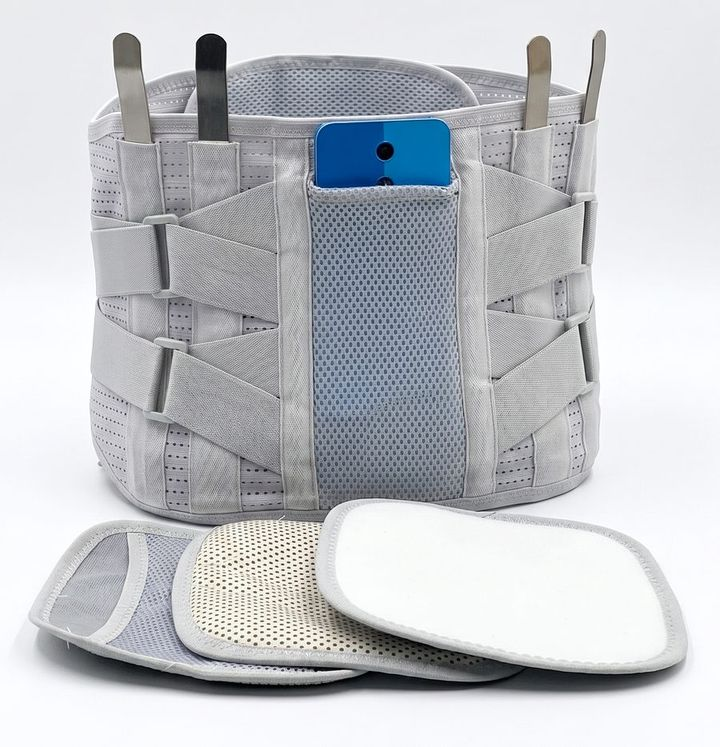
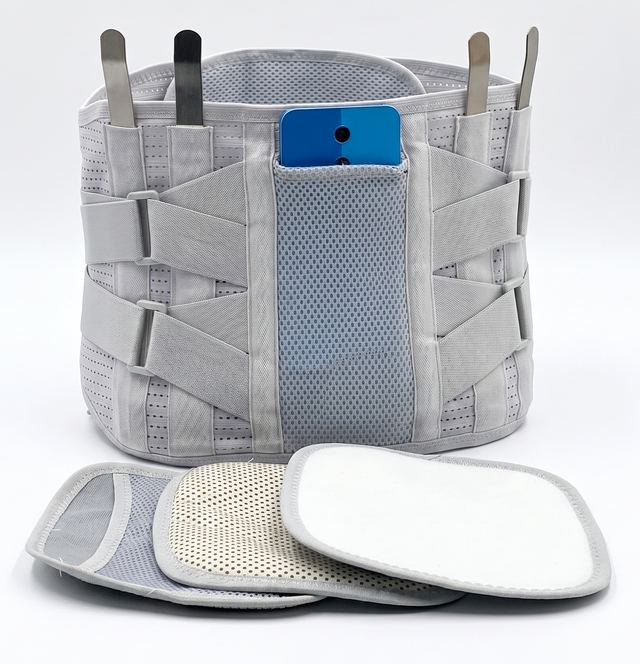
Пиксельдер админ арқылы, сурет қозғалмайды, сайт жылдамдығы
Claude-Session: https://claude.ai/code/session_01YBJso413CP3CgJT5KMA59N

Changed region(s): [[0.375, 0.753, 0.4062, 0.7831], [0.375, 0.6928, 0.4062, 0.7229]]

diff --git a/bel/index.html b/bel/index.html
@@ -12,27 +12,9 @@
   <meta property="og:image" content="../img/bandaj.jpg">
   <link rel="preload" as="image" href="../img/bandaj.webp" type="image/webp" fetchpriority="high">
   <link rel="preconnect" href="https://wa.me">
-  <link rel="preconnect" href="https://analytics.tiktok.com">
 
-<!-- TikTok Pixel Code Start -->
-<script>
-!function (w, d, t) {
-  w.TiktokAnalyticsObject=t;var ttq=w[t]=w[t]||[];ttq.methods=["page","track","identify","instances","debug","on","off","once","ready","alias","group","enableCookie","disableCookie","holdConsent","revokeConsent","grantConsent"],ttq.setAndDefer=function(t,e){t[e]=function(){t.push([e].concat(Array.prototype.slice.call(arguments,0)))}};for(var i=0;i<ttq.methods.length;i++)ttq.setAndDefer(ttq,ttq.methods[i]);ttq.instance=function(t){for(
-var e=ttq._i[t]||[],n=0;n<ttq.methods.length;n++)ttq.setAndDefer(e,ttq.methods[n]);return e},ttq.load=function(e,n){var r="https://analytics.tiktok.com/i18n/pixel/events.js",o=n&&n.partner;ttq._i=ttq._i||{},ttq._i[e]=[],ttq._i[e]._u=r,ttq._t=ttq._t||{},ttq._t[e]=+new Date,ttq._o=ttq._o||{},ttq._o[e]=n||{};n=document.createElement("script")
-;n.type="text/javascript",n.async=!0,n.src=r+"?sdkid="+e+"&lib="+t;e=document.getElementsByTagName("script")[0];e.parentNode.insertBefore(n,e)};
-
-  ttq.load('DBCM57BC77U4J2JQ97R0');
-  ttq.page();
-}(window, document, 'ttq');
-</script>
-<!-- TikTok Pixel Code End -->
-
-<!-- Facebook/Instagram Pixel керек болса: төмендегі блоктың басы мен соңындағы белгілерді алып тастап, ВАШ_PIXEL_ID орнына өз ID-іңізді жазыңыз
-<script>
-!function(f,b,e,v,n,t,s){if(f.fbq)return;n=f.fbq=function(){n.callMethod?n.callMethod.apply(n,arguments):n.queue.push(arguments)};if(!f._fbq)f._fbq=n;n.push=n;n.loaded=!0;n.version='2.0';n.queue=[];t=b.createElement(e);t.async=!0;t.src=v;s=b.getElementsByTagName(e)[0];s.parentNode.insertBefore(t,s)}(window,document,'script','https://connect.facebook.net/en_US/fbevents.js');
-fbq('init','ВАШ_PIXEL_ID');fbq('track','PageView');
-</script>
--->
+<!-- Пиксельдер админ беттен басқарылады (px.js) -->
+<script async src="../px.js"></script>
 
   <style>
     *{box-sizing:border-box;margin:0;padding:0;-webkit-tap-highlight-color:transparent}
@@ -53,8 +35,7 @@ fbq('init','ВАШ_PIXEL_ID');fbq('track','PageView');
     .card{
       width:100%;max-width:420px;text-align:center;
       display:flex;flex-direction:column;align-items:center;
-      background:rgba(255,255,255,.75);
-      -webkit-backdrop-filter:blur(10px);backdrop-filter:blur(10px);
+      background:#fff;
       border:1px solid rgba(15,23,42,.06);
       border-radius:28px;
       padding:clamp(22px,6vw,32px) clamp(18px,5vw,26px) clamp(20px,5vw,26px);
@@ -84,7 +65,6 @@ fbq('init','ВАШ_PIXEL_ID');fbq('track','PageView');
       object-fit:contain;object-position:center;
       -webkit-mask-image:linear-gradient(90deg,transparent 0,#000 14%,#000 86%,transparent 100%);
       mask-image:linear-gradient(90deg,transparent 0,#000 14%,#000 86%,transparent 100%);
-      animation:float 4s ease-in-out infinite;
     }
     .photo .sale{
       position:absolute;top:10px;left:10px;
@@ -110,15 +90,13 @@ fbq('init','ВАШ_PIXEL_ID');fbq('track','PageView');
     .sticky{
       position:fixed;left:0;right:0;bottom:0;z-index:20;
       padding:10px 16px calc(10px + env(safe-area-inset-bottom));
-      background:rgba(255,255,255,.92);
-      -webkit-backdrop-filter:blur(10px);backdrop-filter:blur(10px);
+      background:rgba(255,255,255,.97);
       border-top:1px solid rgba(15,23,42,.06);
       transform:translateY(110%);transition:transform .25s ease;
     }
     .sticky.show{transform:none}
     .sticky .wa-btn{max-width:420px;margin:0 auto;min-height:56px;animation:none}
     .sticky .wa-btn::after{display:none}
-    @keyframes float{0%,100%{transform:translateY(0)}50%{transform:translateY(-4px)}}
     .title .hl{
       color:#0e8f55;
       background:linear-gradient(transparent 62%, rgba(37,211,102,.22) 62%);
@@ -180,7 +158,7 @@ fbq('init','ВАШ_PIXEL_ID');fbq('track','PageView');
     <div class="photo">
       <picture>
         <source srcset="../img/bandaj.webp" type="image/webp">
-        <img src="../img/bandaj.jpg" width="720" height="747" alt="Бел ауруына арналған ортопедиялық бандаж" fetchpriority="high" decoding="async">
+        <img src="../img/bandaj.jpg" width="640" height="664" alt="Бел ауруына арналған ортопедиялық бандаж" fetchpriority="high" decoding="async">
       </picture>
       <span class="sale">ОРТОПЕДИЯЛЫҚ БАНДАЖ</span>
     </div>
@@ -276,8 +254,7 @@ fbq('init','ВАШ_PIXEL_ID');fbq('track','PageView');
       this.querySelector('.btn-label').textContent = 'Ашылуда...';
       this.classList.add('loading');
 
-      if (typeof window.fbq === 'function') window.fbq('track', 'SubmitApplication');
-      if (window.ttq && typeof window.ttq.track === 'function') window.ttq.track('ClickButton');
+      if (typeof window.__pxClick === 'function') { try { window.__pxClick(); } catch (er) {} }
 
       setTimeout(function () { window.location.href = url; }, 180);
     });

diff --git a/admin.php b/admin.php
@@ -10,6 +10,7 @@ session_start();
 
 ensure_data();
 $cfg = cfg();
+if (!file_exists(__DIR__ . '/px.js')) write_px($cfg);
 if (empty($_SESSION['csrf'])) $_SESSION['csrf'] = bin2hex(random_bytes(16));
 $CSRF = $_SESSION['csrf'];
 
@@ -212,6 +213,17 @@ if ($_SERVER['REQUEST_METHOD'] === 'POST') {
         $cfg['mode'] = post('mode') === 'random' ? 'random' : 'rr';
         cfg_save($cfg);
         go_to('tab=settings', 'Баптаулар сақталды ✓');
+    }
+    if ($a === 'pixels') {
+        $tt = px_list(strtoupper(post('tt_ids')), '/^[A-Z0-9]{8,30}$/');
+        $fb = px_list(post('fb_ids'), '/^\d{8,20}$/');
+        $cfg['tt_ids'] = implode(', ', $tt);
+        $cfg['fb_ids'] = implode(', ', $fb);
+        $cfg['tt_event'] = in_array(post('tt_event'), ['ClickButton', 'Contact', 'SubmitForm', 'Lead', 'CompleteRegistration'], true) ? post('tt_event') : 'ClickButton';
+        $cfg['fb_event'] = in_array(post('fb_event'), ['Lead', 'Contact', 'SubmitApplication', 'CompleteRegistration'], true) ? post('fb_event') : 'Lead';
+        cfg_save($cfg);
+        if (!file_exists(__DIR__ . '/px.js')) go_to('tab=settings', '⚠ px.js файлын жазу мүмкін болмады. Сайт папкасына жазу рұқсатын тексеріңіз.');
+        go_to('tab=settings', 'Пиксельдер сақталды ✓ Сайтта бірден жұмыс істейді');
     }
     if ($a === 'pass') {
         if (!password_verify(post('old'), $cfg['password'])) go_to('tab=settings', '⚠ Қазіргі құпиясөз қате');
@@ -477,6 +489,32 @@ else: ?>
       <label>Өтінімдерді тарату тәсілі</label>
       <label class="radio"><input type="radio" name="mode" value="rr" <?= $cfg['mode'] !== 'random' ? 'checked' : '' ?>> <span><b>Кезекпен</b> — 1-менеджер, 2-менеджер, 3-менеджер, қайтадан 1… (әділ бөлінеді)</span></label>
       <label class="radio"><input type="radio" name="mode" value="random" <?= $cfg['mode'] === 'random' ? 'checked' : '' ?>> <span><b>Кездейсоқ</b> — әр басуда кездейсоқ менеджер</span></label>
+      <button class="btn" style="margin-top:10px">Сақтау</button>
+    </form>
+  </div>
+
+  <div class="card">
+    <h2>📈 Пиксельдер</h2>
+    <p class="muted">ID жазып «Сақтау» басыңыз — сайтқа бірден қосылады. Бірнеше пиксель болса, үтірмен бөліп жазыңыз. Өшіру үшін өрісті бос қалдырыңыз.</p>
+    <form method="post">
+      <input type="hidden" name="csrf" value="<?= h($CSRF) ?>"><input type="hidden" name="a" value="pixels">
+      <label>TikTok Pixel ID</label>
+      <input type="text" name="tt_ids" value="<?= h($cfg['tt_ids']) ?>" placeholder="Мысалы: DBCM57BC77U4J2JQ97R0" autocomplete="off">
+      <label>TikTok: батырма басылғандағы оқиға</label>
+      <select name="tt_event">
+        <?php foreach (['ClickButton' => 'ClickButton — батырманы басу', 'Contact' => 'Contact — байланыс', 'SubmitForm' => 'SubmitForm — өтінім жіберу', 'Lead' => 'Lead — лид', 'CompleteRegistration' => 'CompleteRegistration — тіркелу'] as $k => $v): ?>
+          <option value="<?= $k ?>" <?= $cfg['tt_event'] === $k ? 'selected' : '' ?>><?= h($v) ?></option>
+        <?php endforeach; ?>
+      </select>
+      <label style="margin-top:16px">Meta (Facebook / Instagram) Pixel ID</label>
+      <input type="text" name="fb_ids" value="<?= h($cfg['fb_ids']) ?>" placeholder="Мысалы: 1234567890123456" inputmode="numeric" autocomplete="off">
+      <label>Meta: батырма басылғандағы оқиға</label>
+      <select name="fb_event">
+        <?php foreach (['Lead' => 'Lead — лид', 'Contact' => 'Contact — байланыс', 'SubmitApplication' => 'SubmitApplication — өтінім', 'CompleteRegistration' => 'CompleteRegistration — тіркелу'] as $k => $v): ?>
+          <option value="<?= $k ?>" <?= $cfg['fb_event'] === $k ? 'selected' : '' ?>><?= h($v) ?></option>
+        <?php endforeach; ?>
+      </select>
+      <p class="muted" style="margin-top:10px">Сайт ашылғанда PageView, WhatsApp батырмасы басылғанда — таңдалған оқиға жіберіледі.</p>
       <button class="btn" style="margin-top:10px">Сақтау</button>
     </form>
   </div>

diff --git a/lib.php b/lib.php
@@ -43,6 +43,10 @@ function cfg_default() {
         'message'  => 'Бандаж бойынша жазып тұрмын',
         'mode'     => 'rr',
         'fallback' => '77057636135',
+        'tt_ids'   => 'DBCM57BC77U4J2JQ97R0',   // TikTok пиксель ID (бірнешеу болса — үтірмен)
+        'tt_event' => 'ClickButton',
+        'fb_ids'   => '',                       // Meta (Facebook/Instagram) пиксель ID
+        'fb_event' => 'Lead',
         'managers' => [
             ['id' => 'm1', 'name' => '1-менеджер', 'phone' => '77057636135', 'active' => true],
         ],
@@ -55,7 +59,7 @@ function cfg() {
     return array_merge(cfg_default(), $c);
 }
 
-function cfg_save($c) { return store_write('config', $c); }
+function cfg_save($c) { $ok = store_write('config', $c); write_px($c); return $ok; }
 
 function log_event($e) {
     ensure_data();
@@ -169,3 +173,40 @@ function nocache() {
 function h($s) { return htmlspecialchars((string)$s, ENT_QUOTES, 'UTF-8'); }
 function ldate($fmt, $ts) { return gmdate($fmt, $ts + TZ); }
 function day_start($ts) { return (int)(floor(($ts + TZ) / 86400) * 86400 - TZ); }
+
+/* ---------- Пиксельдер: админде сақталғанда px.js файлы жасалады ---------- */
+function px_list($s, $re) {
+    $out = [];
+    foreach (preg_split('/[\s,;]+/', (string)$s) as $id) {
+        if ($id !== '' && preg_match($re, $id)) $out[] = $id;
+    }
+    return array_values(array_unique($out));
+}
+
+function write_px($c) {
+    $tt = px_list($c['tt_ids'], '/^[A-Z0-9]{8,30}$/');
+    $fb = px_list($c['fb_ids'], '/^\d{8,20}$/');
+    $te = preg_replace('/[^A-Za-z]/', '', $c['tt_event']) ?: 'ClickButton';
+    $fe = preg_replace('/[^A-Za-z]/', '', $c['fb_event']) ?: 'Lead';
+    $js = "/* Админ беттен автоматты жасалған файл. Қолмен өзгертпеңіз. */\n(function(w,d){\n";
+    $js .= 'var TT=' . json_encode($tt) . ',TE=' . json_encode($te) . ',FB=' . json_encode($fb) . ',FE=' . json_encode($fe) . ";\n";
+    if ($tt) {
+        $js .= <<<'JS'
+!function(w,d,t){w.TiktokAnalyticsObject=t;var ttq=w[t]=w[t]||[];ttq.methods=["page","track","identify","instances","debug","on","off","once","ready","alias","group","enableCookie","disableCookie","holdConsent","revokeConsent","grantConsent"],ttq.setAndDefer=function(t,e){t[e]=function(){t.push([e].concat(Array.prototype.slice.call(arguments,0)))}};for(var i=0;i<ttq.methods.length;i++)ttq.setAndDefer(ttq,ttq.methods[i]);ttq.instance=function(t){for(var e=ttq._i[t]||[],n=0;n<ttq.methods.length;n++)ttq.setAndDefer(e,ttq.methods[n]);return e},ttq.load=function(e,n){var r="https://analytics.tiktok.com/i18n/pixel/events.js";ttq._i=ttq._i||{},ttq._i[e]=[],ttq._i[e]._u=r,ttq._t=ttq._t||{},ttq._t[e]=+new Date,ttq._o=ttq._o||{},ttq._o[e]=n||{};n=d.createElement("script");n.type="text/javascript",n.async=!0,n.src=r+"?sdkid="+e+"&lib="+t;e=d.getElementsByTagName("script")[0];e.parentNode.insertBefore(n,e)};
+for(var k=0;k<TT.length;k++)ttq.load(TT[k]);ttq.page();}(w,d,'ttq');
+
+JS;
+    }
+    if ($fb) {
+        $js .= <<<'JS'
+!function(f,b,e,v,n,t,s){if(f.fbq)return;n=f.fbq=function(){n.callMethod?n.callMethod.apply(n,arguments):n.queue.push(arguments)};if(!f._fbq)f._fbq=n;n.push=n;n.loaded=!0;n.version='2.0';n.queue=[];t=b.createElement(e);t.async=!0;t.src=v;s=b.getElementsByTagName(e)[0];s.parentNode.insertBefore(t,s)}(w,d,'script','https://connect.facebook.net/en_US/fbevents.js');
+for(var j=0;j<FB.length;j++)fbq('init',FB[j]);fbq('track','PageView');
+
+JS;
+    }
+    $js .= "w.__pxClick=function(){if(TT.length&&w.ttq)w.ttq.track(TE);if(FB.length&&w.fbq)w.fbq('track',FE);};\n})(window,document);\n";
+    $f = __DIR__ . '/px.js';
+    $tmp = $f . '.' . mt_rand(1000, 9999) . '.tmp';
+    if (@file_put_contents($tmp, $js) === false) return false;
+    return @rename($tmp, $f);
+}

diff --git a/track.php b/track.php
@@ -3,6 +3,7 @@
 define('APP', 1);
 require __DIR__ . '/lib.php';
 nocache();
+if (!file_exists(__DIR__ . '/px.js')) write_px(cfg());
 
 if ($_SERVER['REQUEST_METHOD'] === 'POST' && !is_bot()) {
     log_event([
